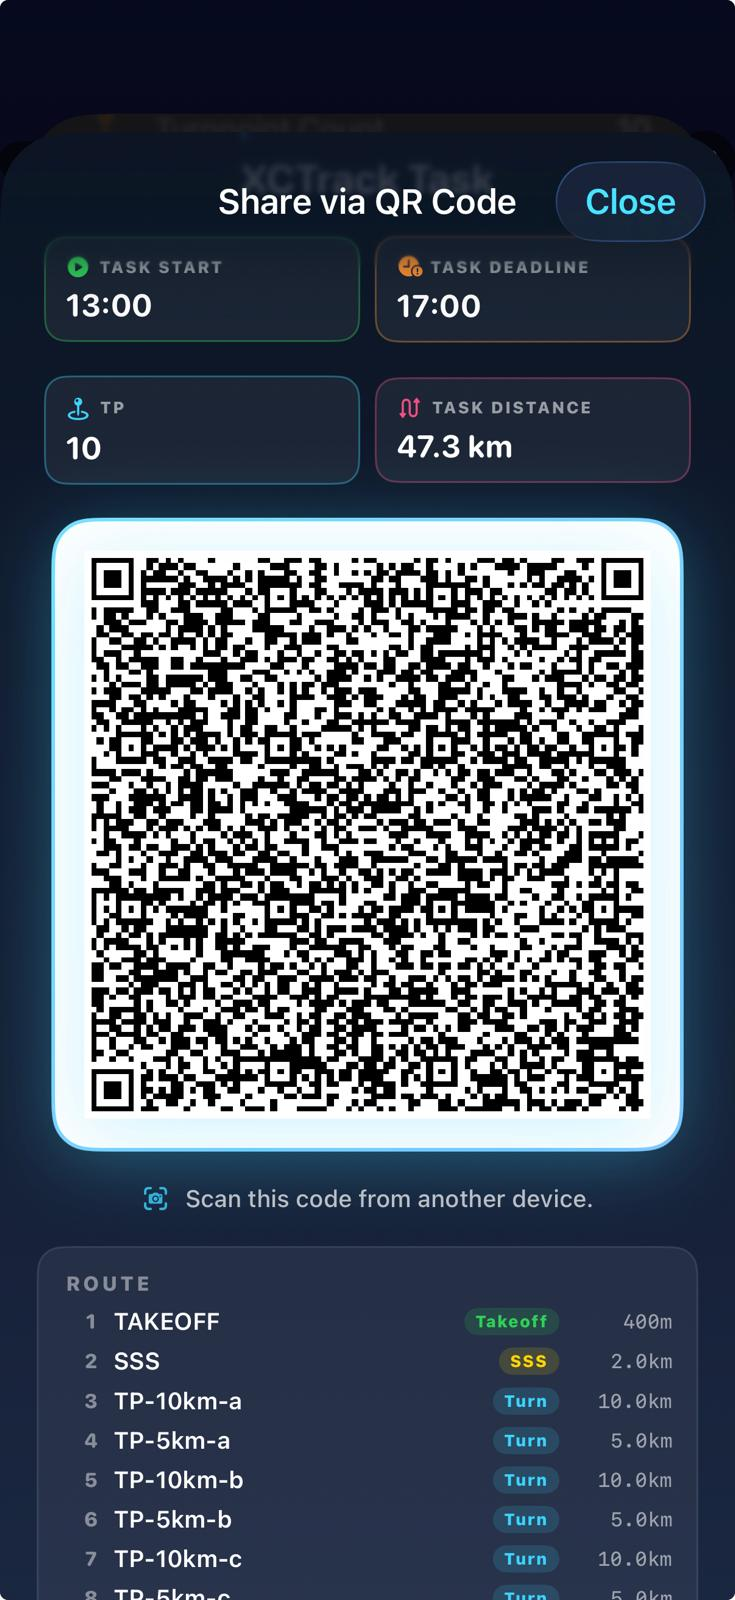
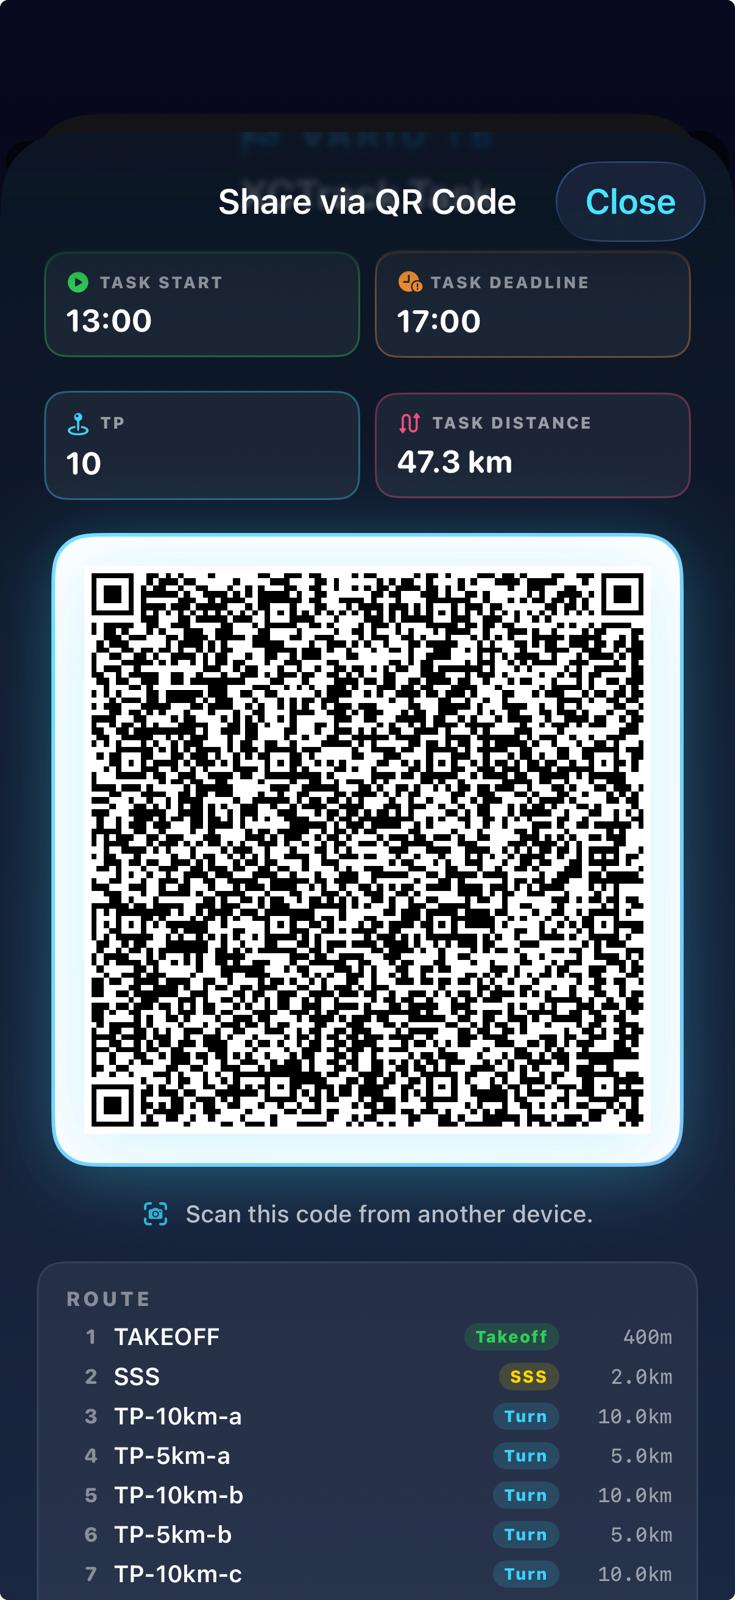
fix

diff --git a/README.md b/README.md
@@ -1,6 +1,6 @@
 # Vario TB — iOS Paragliding Variometer
 
-Yamaç paraşütü ve planör pilotları için SwiftUI ile yazılmış, **serbest pixel konumlandırmalı özelleştirilebilir panel** odaklı variometer uygulaması. Türkçe/İngilizce arayüz, uydu haritası, barometrik vario, **heading-up rüzgâr kadranı**, termik radarı, **canlı + FAI-validated çift katmanlı üçgen tespiti**, **XCTrack-uyumlu yarışma görevleri (QR + deep link)**, **pilot konumundan tetiklenen FAI practice simülatörü**, IGC uçuş kaydı, LiveTrack24 canlı takip ve Siri Shortcuts içerir.
+Yamaç paraşütü ve planör pilotları için SwiftUI ile yazılmış, **serbest pixel konumlandırmalı özelleştirilebilir panel** odaklı variometer uygulaması. Türkçe/İngilizce arayüz, uydu haritası, barometrik vario, **heading-up rüzgâr kadranı**, termik radarı, **canlı + FAI-validated çift katmanlı üçgen tespiti**, **XCTrack v2 uyumlu yarışma görevleri (XCTSK QR)**, **pilot konumundan tetiklenen FAI practice simülatörü**, IGC uçuş kaydı, LiveTrack24 canlı takip ve Siri Shortcuts içerir.
 
 **Hedef cihaz:** iPhone 15/16 Pro (iOS 17+) — barometre ve yüksek-hassasiyetli GPS gerekir.
 
@@ -31,7 +31,7 @@ Yamaç paraşütü ve planör pilotları için SwiftUI ile yazılmış, **serbes
 <p align="center">
   <i>1. <b>Yarışma layout</b> — vario (sol üst), HEDEF oku (sağ üst), yer hızı/rakım, sonraki TP / goal mesafesi, harita (altta) üzerinde rüzgâr kadranı + termik radarı overlay, saat/pil alt satırda.</i><br><br>
   <i>2. <b>Yarışma Görevi editörü</b> — QR tara / QR paylaş, turnpoint listesi (tip + yarıçap + kümülatif mesafe), start time / deadline, toplam optimum mesafe.</i><br><br>
-  <i>3. <b>Task QR paylaşımı</b> — <code>variotb://task?data=&lt;base64&gt;</code> formatında QR kod. iOS kamera tarayınca doğrudan Vario TB'yi açar.</i><br><br>
+  <i>3. <b>Task QR paylaşımı</b> — XCTrack v2 standardında <code>XCTSK:&lt;json&gt;</code> plaintext QR. Flyskyhy/XCTrack/SeeYou Navigator ile uyumlu — pilot hangi flight app'i kullanırsa kullansın aynı QR'ı app içi tarayıcıyla okur, çakışma yok.</i><br><br>
   <i>4. <b>Uçuş kayıtları</b> — <code>Documents/Flights/*.igc</code> (gerçek uçuş: mavi uçak ikonu) + <code>Documents/Waypoints/thermals_*.cup</code> (sarı pin ikonu). <b>SIM etiketli dosyalar</b> simülatör kayıtlarıdır. Dosya başına paylaş ikonu, swipe-to-delete, üstte <b>Share All / Delete All</b> toplu işlemler.</i><br><br>
   <i>5. <b>FAI üçgen practice modu</b> — task yokken SIM butonuna basıldığında pilotun anlık GPS konumundan başlayıp 12.5 km GB → 8.75 km K → kapanış (~8.84 km, çevre ~30 km) bacaklarıyla FAI-valid bir üçgen uçar. Harita sol-altta yeşil "FAI TRIANGLE 30.3 km" pill'i + alt satırda canlı path uzunluğu (32.2 km — pilotun yere göre kat ettiği yol). Tüm bacaklar uçulduğunda ve pilot takeoff'a 6 km'den yakınsa üçgen yeşil dolu olur (kapandı).</i><br><br>
   <i>6. <b>Yatay mod</b> — telefon yatay çevrildiğinde kartlar otomatik yeniden yerleşir: tüm enstrüman okumaları sol yarıda 2'şer 2'şer satırlarda (vario + HEDEF, yer hızı + rakım, SSS + GOAL, saat + pil), harita sağ yarıda tam yükseklik (rüzgâr kadranı + termik radarı overlay).</i>
@@ -60,10 +60,10 @@ Yamaç paraşütü ve planör pilotları için SwiftUI ile yazılmış, **serbes
 
 ### XCTrack-uyumlu yarışma görevleri
 
-- **QR + deep link paylaşımı** — uygulamanın ürettiği QR kod `variotb://task?data=<base64>` formatında. iOS kamera taradığında **doğrudan Vario TB'yi açar**, Flyskyhy/XCTrack gibi diğer flight app'lerle çakışma yok. Harici XCTrack `xctsk://` QR'ları **app içi QR tarayıcıdan** parse edilir — iOS Camera'dan değil, çünkü `xctsk:` schema'sı Flyskyhy'a bırakılmıştır (detay aşağıda URL scheme'ler bölümünde).
+- **QR paylaşımı (XCTrack v2 standart)** — uygulamanın ürettiği QR kod `XCTSK:<v2-json>` plaintext formatında, **Flyskyhy ve XCTrack ile bire-bir aynı format**. Plain text olduğu için iOS Kamera'da deep link olarak açılmaz, raw payload görünür — pilot hangi flight app'inde import etmek istiyorsa onun içinden tarar. Çakışma yok, "ezme" yok. Vario TB'nin app içi QR tarayıcısı (Yarışma Görevi → QR Tara) hem kendi ürettiği hem Flyskyhy/XCTrack'tan gelen QR'ları aynı parser ile okur — `XCTSK:` / `XCTSKZ:` / `xctsk:<body>` / `xctsk://<body>` varyantlarının hepsi destekli.
 - **İki açılış yolu**:
-  1. **App içi QR tarayıcı** — "Yarışma Görevi" → QR tara butonuyla kamera açılır.
-  2. **iOS Camera deep link** — QR'ı iOS'un sistem kamerası okur, üst banner'dan "Vario TB'de Aç" → task editör.
+  1. **App içi QR tarayıcı (önerilen)** — "Yarışma Görevi" → QR tara butonuyla kamera açılır. Hem Vario TB'nin kendi QR'larını hem dışarıdan gelen Flyskyhy/XCTrack QR'larını okur.
+  2. **`variotb://` deep link** — başka bir kanaldan (e-posta linki, Mesajlar, web sayfası vs.) `variotb://task?data=<url-safe-base64>` URL'i tıklanırsa iOS doğrudan Vario TB'yi açar. Bu schema'yı başka uçuş app'i claim etmediği için çakışma yok. Ancak şu an Vario TB'nin **paylaştığı QR'lar bu URL formatını kullanmaz** — düz `XCTSK:` plaintext üretir ki Flyskyhy/XCTrack ile uyumlu kalsın.
 - **Turnpoint tipleri** — Takeoff, SSS (Start of Speed Section), Turnpoint, ESS (End of Speed Section), Goal. Her TP için silindir yarıçapı, irtifa, ENTRY/EXIT semantiği.
 - **Görev zamanlaması** — başlama saati ve deadline (UTC), UI üzerinden set/clear.
 - **Optimum tangent rota** — bisector relaxation + goal-side fallback (concentric/dejenere durumlar için). Mavi çizgi haritada canlı gözükür.
@@ -209,9 +209,11 @@ open VarioTB.xcodeproj
 
 Info.plist tek bir scheme claim eder:
 
-- `variotb://task?data=<base64>` — **kendi QR formatımız**, iOS kamera tarayınca doğrudan Vario TB açılır. Hiçbir başka uçuş app'i bu schema'yı kullanmaz, çakışma yok.
+- `variotb://task?data=<url-safe-base64>` — Vario TB'ye özgü deep link. Hiçbir başka uçuş app'i bu schema'yı kullanmaz, çakışma yok. Şu an **Vario TB'nin paylaştığı QR'lar bu URL'i kullanmaz** (XCTSK: plaintext kullanır), ama schema kayıtlı durumda — başka kanaldan (e-posta, web, Mesajlar) gelen `variotb://` linkleri iOS doğrudan Vario TB'de açar.
 
-**`xctsk:` schema'sı bilinçli olarak claim edilmemiştir.** XCTrack ve Flyskyhy bu schema'yı zaten claim ediyor; biz de claim etseydik iOS hangi app'in açılacağını seçemediğinden (kullanıcıya seçenek sunmadan en son kurulan app'i kullanır) kullanıcıların **alıştığı Flyskyhy davranışı bozulur**, beklenmedik biçimde Vario TB açılırdı. Pilot xctsk QR'larını yine tarayabilir — **app içi QR tarayıcı** (Yarışma Görevi → QR Tara) doğrudan kameraya bağlanır ve `xctsk:` payload'larını parse eder, iOS deep-link resolver'ına dokunmadan. Ya da pilot Vario TB'den QR oluşturduğunda biz `variotb://` formatını kullandığımız için iOS Camera onu kesin olarak Vario TB'de açar.
+**`xctsk:` schema'sı bilinçli olarak claim edilmemiştir.** XCTrack ve Flyskyhy bu schema'yı zaten claim ediyor; biz de claim etseydik iOS hangi app'in açılacağını seçemediğinden (kullanıcıya seçenek sunmadan en son kurulan app'i seçer) kullanıcıların **alıştığı Flyskyhy davranışı bozulur**, beklenmedik biçimde Vario TB açılırdı. Pilot xctsk QR'larını yine tarayabilir — **app içi QR tarayıcı** (Yarışma Görevi → QR Tara) doğrudan kameraya bağlanır ve `xctsk:`/`XCTSK:`/`XCTSKZ:` payload'larının hepsini parse eder, iOS deep-link resolver'ına dokunmadan.
+
+**Vario TB'nin ürettiği QR formatı:** Düz `XCTSK:<v2-json>` plaintext. Bu format Flyskyhy ve XCTrack ile bire-bir aynıdır (aynı codec). iOS Kamera bunu deep link olarak değil raw text olarak gösterir — çakışma sorunu doğmaz, kullanıcı app içinden import eder.
 
 ---
 
@@ -250,7 +252,7 @@ Info.plist tek bir scheme claim eder:
     │   └── ChimePlayer.swift          Reach chime (C5-E5-G5 arpeggio)
     ├── Utils/
     │   ├── CoordConverter.swift       DMS/DM/UTM/MGRS dönüşümleri
-    │   └── TaskQRCodec.swift          XCTrack v1/v2 + variotb:// wrapper
+    │   └── TaskQRCodec.swift          XCTSK: v1/v2 encoder + decoder (variotb:// wrapper desteği geri uyumluluk için)
     └── Views/
         ├── ContentView.swift          ZStack + panel + deep link drain
         ├── PanelView.swift            Pixel layout renderer + drag/resize + soft snap + zIndex split
@@ -294,7 +296,7 @@ Info.plist tek bir scheme claim eder:
 
 **Deep link akışı.** Sadece `variotb://` schema'sı iOS'a kaydedildi. `VarioTBApp.onOpenURL` URL'yi parse eder, warm launch'ta NotificationCenter ile, cold launch'ta `DeepLink.pendingPayload` static stash ile `ContentView`'a iletir. `ContentView` task editör sheet'ini açar, `CompetitionTaskView.onAppear` payload'u drain edip QR scan akışına sokar. `xctsk:` URL'leri iOS Camera tarafından artık Vario TB'ye yönlendirilmez (Flyskyhy önceliği), ama kod içinde `xctsk:` parser hâlâ vardır — app içi QR tarayıcı (kamera) `xctsk:` payload'larını yakalar ve aynı pipeline'a sokar.
 
-**QR format.** `generateQR` artık XCTrack v2 payload'unu `variotb://task?data=<url-safe-base64>` içine sarar. Kendi app'imiz için iOS kamera tarayınca direkt açılır. XCTrack'tan gelen plain `XCTSK:` / `XCTSKZ:` / `xctsk:` QR'ları eski kodla parse edilmeye devam eder — geri uyumlu.
+**QR format.** `generateQR` artık XCTrack v2 standart `XCTSK:<json>` plaintext üretir — Flyskyhy ve XCTrack ile bire-bir aynı. SSS open time (root.s.g[]) ve goal deadline (root.g.d) UTC HH:MM:SSZ formatında yazılır. Decoder tüm yaygın varyantları kabul eder: `XCTSK:` (v1/v2 plain), `XCTSKZ:` (zlib + base64 sıkıştırılmış), `xctsk:<body>`, `xctsk://<body>`, `variotb://task?data=<url-safe-base64-of-XCTSK>`. Encoder URL-wrapper kullanmaz (plaintext çıkar) ama decoder URL formatlarını da çözer — başka bir kanaldan gelen wrapped link gerekirse desteklenir.
 
 **Simulator routing.** İki tetikleyici: task yüklü ise `loadTask(waypoints:routePoints:)` (haritadaki blue line noktalarını alır), task yoksa `loadFAITrianglePractice(from:pilotAltM:)` (pilot konumundan 4-noktalı üçgen route üretir, `destination(from:bearingDeg:distanceKm:)` great-circle helper'ı ile). Her iki yol da `taskWaypoints`'i doldurur, sonra `start()` aynı path-follower'ı çalıştırır. `.taskLeg` basit bir path-follower — point'e 10m kala sıradakine geçer. Altitude 2000m altına düşünce `.taskClimb` (4 m/s termik) devreye girer, 2500m'e ulaşınca rota takibine devam eder.
 
